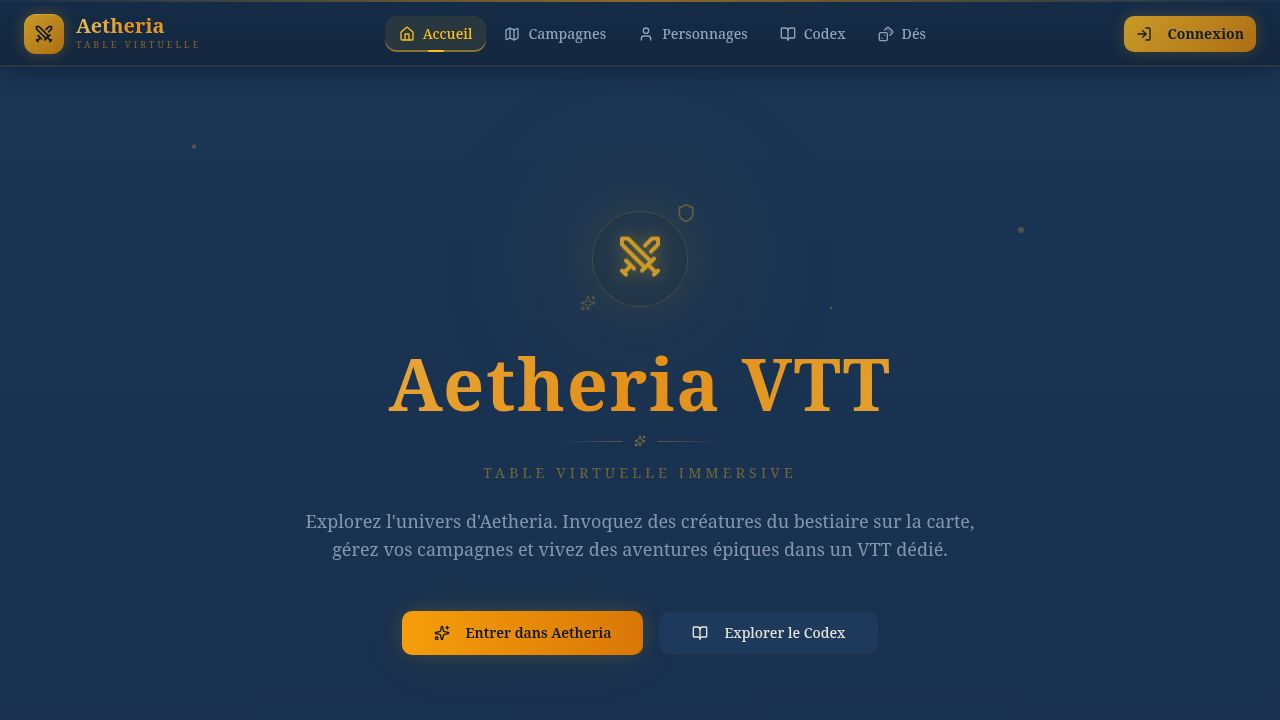
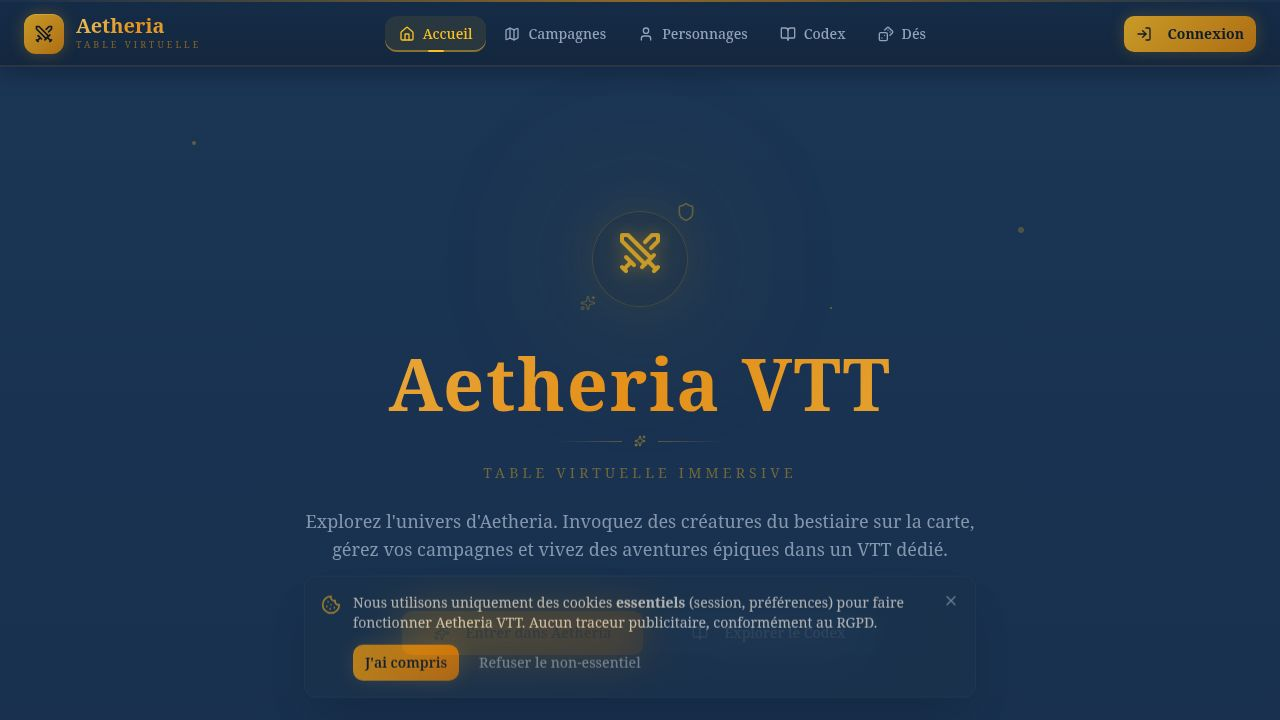
Display Worlds Awakening creatures directly and remove sync button
Removed the manual synchronization button and updated the component to directly fetch and display Worlds Awakening creatures with filtering options.

Replit-Commit-Author: Agent
Replit-Commit-Session-Id: 46dca098-1638-42d0-98a5-cd7e334ba89e
Replit-Commit-Checkpoint-Type: full_checkpoint
Replit-Commit-Event-Id: 5413062c-f66a-45c7-a9ca-89ab6a9cfb02
Replit-Commit-Screenshot-Url: https://storage.googleapis.com/screenshot-production-us-central1/2af47b15-2244-4880-a187-91f0ed372776/46dca098-1638-42d0-98a5-cd7e334ba89e/vPDWcIY
Replit-Helium-Checkpoint-Created: true

Changed region(s): [[0.25, 0.825, 0.7188, 0.9472], [0.4688, 0.3056, 0.5312, 0.3972]]

diff --git a/artifacts/questmaster/src/components/compendium/WACreaturesList.tsx b/artifacts/questmaster/src/components/compendium/WACreaturesList.tsx
@@ -1,11 +1,8 @@
 import { useState, useEffect } from "react";
 import { compendiumApi } from "@/lib/api";
 import { Badge } from "@/components/ui/badge";
-import { Button } from "@/components/ui/button";
 import { Select, SelectContent, SelectItem, SelectTrigger, SelectValue } from "@/components/ui/select";
-import { Loader2, Skull, Swords, RefreshCw, CheckCircle } from "lucide-react";
-import { useAuth } from "@/hooks/useAuth";
-import { toast } from "sonner";
+import { Loader2, Skull, Swords } from "lucide-react";
 
 interface WACreature {
   id: string;
@@ -29,60 +26,35 @@ interface WACreaturesListProps {
 }
 
 const WACreaturesList = ({ searchQuery }: WACreaturesListProps) => {
-  const { user } = useAuth();
   const [creatures, setCreatures] = useState<WACreature[]>([]);
   const [loading, setLoading] = useState(true);
-  const [syncing, setSyncing] = useState(false);
   const [powerFilter, setPowerFilter] = useState<string>("all");
   const [sizeFilter, setSizeFilter] = useState<string>("all");
   const [expandedCreature, setExpandedCreature] = useState<string | null>(null);
 
-  const fetchCreatures = async () => {
-    try {
-      const data = await compendiumApi.getWaCreatures();
-      setCreatures((data as any[]).map(c => ({
-        id: c.id,
-        name: c.name,
-        power_level: c.powerLevel ?? c.power_level ?? "",
-        size: c.size,
-        profile: c.profile,
-        ra: c.ra,
-        strength: c.strength,
-        dexterity: c.dexterity,
-        constitution: c.constitution,
-        intelligence: c.intelligence,
-        wisdom: c.wisdom,
-        charisma: c.charisma,
-        description: c.description,
-        author: c.author ?? null,
-      })));
-    } catch (e) { console.error(e); }
-    setLoading(false);
-  };
-
   useEffect(() => {
-    fetchCreatures();
+    compendiumApi.getWaCreatures()
+      .then((data: any[]) => {
+        setCreatures(data.map(c => ({
+          id: c.id,
+          name: c.name,
+          power_level: c.powerLevel ?? c.power_level ?? "",
+          size: c.size,
+          profile: c.profile,
+          ra: c.ra,
+          strength: c.strength,
+          dexterity: c.dexterity,
+          constitution: c.constitution,
+          intelligence: c.intelligence,
+          wisdom: c.wisdom,
+          charisma: c.charisma,
+          description: c.description,
+          author: c.author ?? null,
+        })));
+      })
+      .catch(console.error)
+      .finally(() => setLoading(false));
   }, []);
-
-  const syncFromWA = async () => {
-    setSyncing(true);
-    toast.info("Synchronisation en cours… Cela peut prendre 1–2 minutes.", { duration: 90000, id: "wa-sync" });
-    try {
-      const result: any = await compendiumApi.syncWaCreatures();
-      toast.dismiss("wa-sync");
-      if (result.inserted > 0) {
-        toast.success(result.message || `${result.inserted} nouvelle(s) créature(s) ajoutée(s) au bestiaire !`);
-        await fetchCreatures();
-      } else {
-        toast.success(result.message || "Le bestiaire est déjà à jour.", { icon: <CheckCircle className="h-4 w-4" /> });
-        if (result.total > 0) await fetchCreatures();
-      }
-    } catch (e: any) {
-      toast.dismiss("wa-sync");
-      toast.error("Erreur lors de la synchronisation : " + (e.message || "Erreur inconnue"));
-    }
-    setSyncing(false);
-  };
 
   const filtered = creatures.filter((c) => {
     const matchesSearch = c.name.toLowerCase().includes(searchQuery.toLowerCase()) ||
@@ -115,65 +87,43 @@ const WACreaturesList = ({ searchQuery }: WACreaturesListProps) => {
     );
   }
 
+  if (creatures.length === 0) {
+    return (
+      <div className="rounded-xl border border-border/50 bg-gradient-card p-8 text-center shadow-card">
+        <Skull className="mx-auto h-12 w-12 text-muted-foreground" />
+        <p className="mt-4 text-muted-foreground">Le bestiaire Worlds Awakening est vide.</p>
+      </div>
+    );
+  }
+
   return (
     <div>
-      {/* Bandeau si vide */}
-      {creatures.length === 0 && (
-        <div className="mb-6 rounded-xl border border-blue-500/30 bg-blue-500/10 p-5 flex items-start gap-4">
-          <div className="flex h-10 w-10 shrink-0 items-center justify-center rounded-lg bg-blue-500/20 text-blue-400 text-xl">🌍</div>
-          <div className="flex-1">
-            <h3 className="font-semibold text-blue-400 mb-1">Bestiaire vide</h3>
-            <p className="text-sm text-muted-foreground mb-3">
-              Cliquez sur "Importer le bestiaire WA" pour récupérer toutes les créatures directement depuis worlds-awakening.com. L'import prend environ 1–2 minutes.
-            </p>
-            {user && (
-              <Button onClick={syncFromWA} disabled={syncing} size="sm" className="bg-blue-600 hover:bg-blue-500 text-white gap-2">
-                <RefreshCw className={`h-4 w-4 ${syncing ? "animate-spin" : ""}`} />
-                {syncing ? "Import en cours…" : "Importer le bestiaire WA"}
-              </Button>
-            )}
-          </div>
-        </div>
-      )}
-
       <div className="mb-6 flex flex-wrap items-center gap-4">
-        {user && creatures.length > 0 && (
-          <Button variant="outline" size="sm" onClick={syncFromWA} disabled={syncing} className="gap-1.5 border-blue-500/40 text-blue-400 hover:bg-blue-500/10">
-            <RefreshCw className={`h-4 w-4 ${syncing ? "animate-spin" : ""}`} />
-            {syncing ? "Synchronisation…" : "Sync WA (worlds-awakening.com)"}
-          </Button>
-        )}
-        {creatures.length > 0 && (
-          <>
-            <Select value={powerFilter} onValueChange={setPowerFilter}>
-              <SelectTrigger className="w-[180px] bg-muted/50 border-border/50">
-                <SelectValue placeholder="Puissance" />
-              </SelectTrigger>
-              <SelectContent className="bg-background border-border">
-                <SelectItem value="all">Toutes puissances</SelectItem>
-                {powers.map(p => <SelectItem key={p} value={p}>{p}</SelectItem>)}
-              </SelectContent>
-            </Select>
+        <Select value={powerFilter} onValueChange={setPowerFilter}>
+          <SelectTrigger className="w-[180px] bg-muted/50 border-border/50">
+            <SelectValue placeholder="Puissance" />
+          </SelectTrigger>
+          <SelectContent className="bg-background border-border">
+            <SelectItem value="all">Toutes puissances</SelectItem>
+            {powers.map(p => <SelectItem key={p} value={p}>{p}</SelectItem>)}
+          </SelectContent>
+        </Select>
 
-            <Select value={sizeFilter} onValueChange={setSizeFilter}>
-              <SelectTrigger className="w-[160px] bg-muted/50 border-border/50">
-                <SelectValue placeholder="Taille" />
-              </SelectTrigger>
-              <SelectContent className="bg-background border-border">
-                <SelectItem value="all">Toutes tailles</SelectItem>
-                {sizes.map(s => <SelectItem key={s} value={s}>{s}</SelectItem>)}
-              </SelectContent>
-            </Select>
-          </>
-        )}
-      </div>
+        <Select value={sizeFilter} onValueChange={setSizeFilter}>
+          <SelectTrigger className="w-[160px] bg-muted/50 border-border/50">
+            <SelectValue placeholder="Taille" />
+          </SelectTrigger>
+          <SelectContent className="bg-background border-border">
+            <SelectItem value="all">Toutes tailles</SelectItem>
+            {sizes.map(s => <SelectItem key={s} value={s}>{s}</SelectItem>)}
+          </SelectContent>
+        </Select>
 
-      {creatures.length > 0 && (
-        <p className="mb-4 text-sm text-muted-foreground">
-          {filtered.length} créature{filtered.length > 1 ? "s" : ""} trouvée{filtered.length > 1 ? "s" : ""}
+        <p className="text-sm text-muted-foreground">
+          {filtered.length} créature{filtered.length > 1 ? "s" : ""}
           {" "}sur {creatures.length} au total
         </p>
-      )}
+      </div>
 
       <div className="grid gap-4 md:grid-cols-2 lg:grid-cols-3">
         {filtered.map((creature) => (
@@ -226,7 +176,7 @@ const WACreaturesList = ({ searchQuery }: WACreaturesListProps) => {
         ))}
       </div>
 
-      {creatures.length > 0 && filtered.length === 0 && (
+      {filtered.length === 0 && (
         <div className="rounded-xl border border-border/50 bg-gradient-card p-8 text-center shadow-card">
           <Skull className="mx-auto h-12 w-12 text-muted-foreground" />
           <p className="mt-4 text-muted-foreground">Aucune créature trouvée avec ces critères</p>